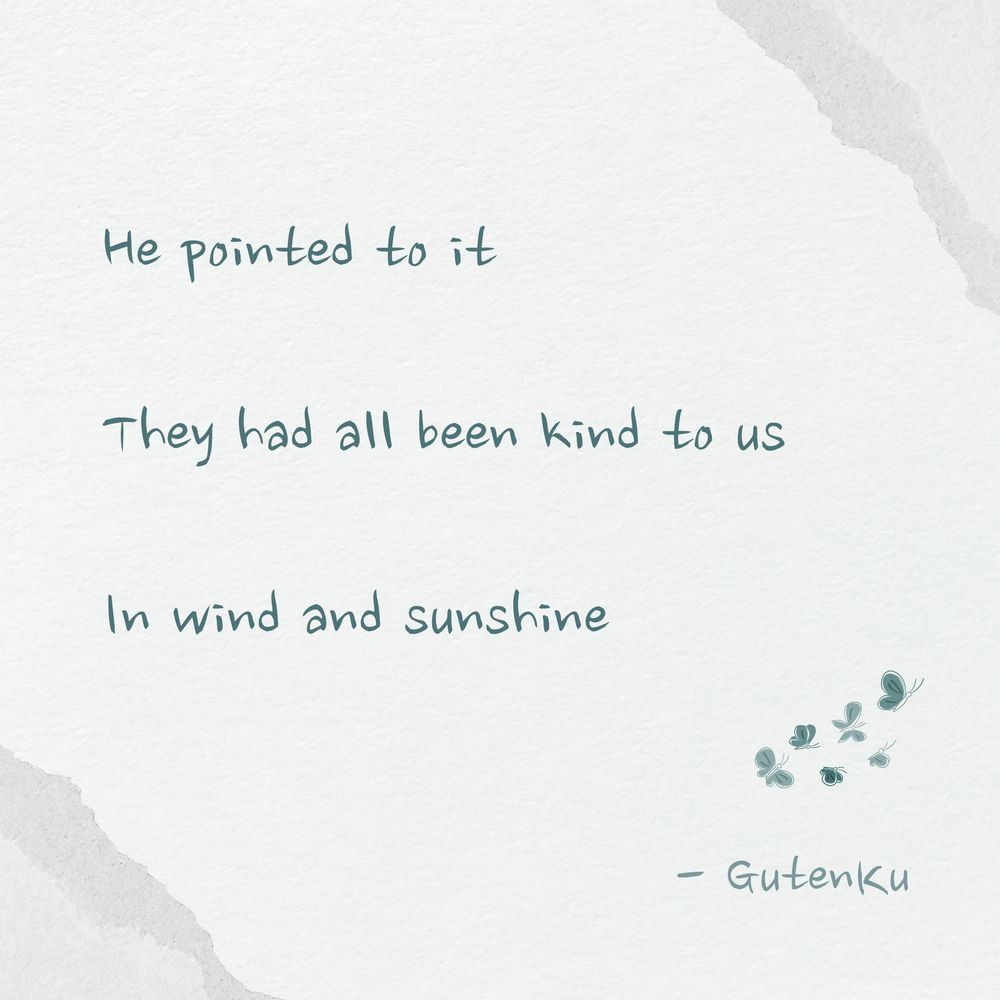
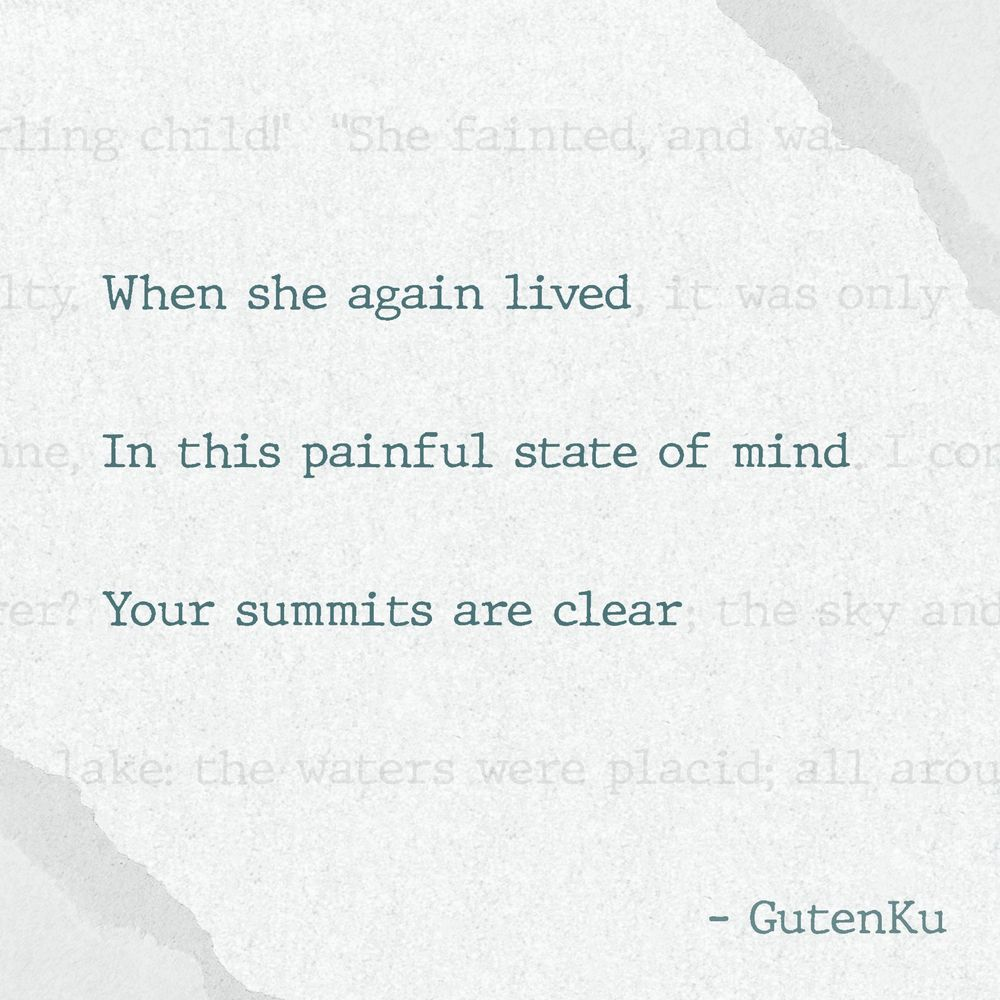
docs(readme): updated daily haiku card

diff --git a/README.md b/README.md
@@ -2,11 +2,11 @@
 
 ## 🌸 Daily Haiku Card 🗻
 
-<img src="/assets/img/daily_haiku_card.jpg?t=1720483201" width="300" alt="Daily Haiku Card">
+<img src="/assets/img/daily_haiku_card.jpg?t=1720569601" width="300" alt="Daily Haiku Card">
 
-Last Snapshot: `Tue, 09 Jul 2024 00:00:01 +0000`
+Last Snapshot: `Wed, 10 Jul 2024 00:00:01 +0000`
 
-> 👩🏫 “This haiku captures a moment of reflection and appreciation. The first line, 'He pointed to it,' suggests a specific object or scene that holds significance. The second line, 'They had all been kind to us,' introduces a sense of community and kindness, indicating that the speaker and others have received benevolence. The final line, 'In wind and sunshine,' symbolizes the passage of time and the varying conditions of life, suggesting that kindness was shown regardless of circumstances. Together, these lines evoke a deep sense of gratitude and the enduring impact of kindness.”
+> 👩🏫 “This haiku captures a poignant moment of emotional struggle and the contrasting clarity found in nature. The first line, 'When she again lived,' suggests a return to a familiar state of existence, possibly one marked by recurring pain or hardship. The second line, 'In this painful state of mind,' explicitly conveys the emotional turmoil the subject is experiencing. However, the final line, 'Your summits are clear,' introduces a stark contrast. The 'summits' symbolize peaks or high points, which are 'clear,' suggesting that despite the internal chaos, there is an external clarity and purity in nature. This juxtaposition highlights the idea that while human emotions can be tumultuous, the natural world remains unaffected and serene, offering a form of solace or perspective.”
 >
 > 🤖✒ _Analysis Written by BotenKu, Your devoted Bot Literature Teacher_
 
